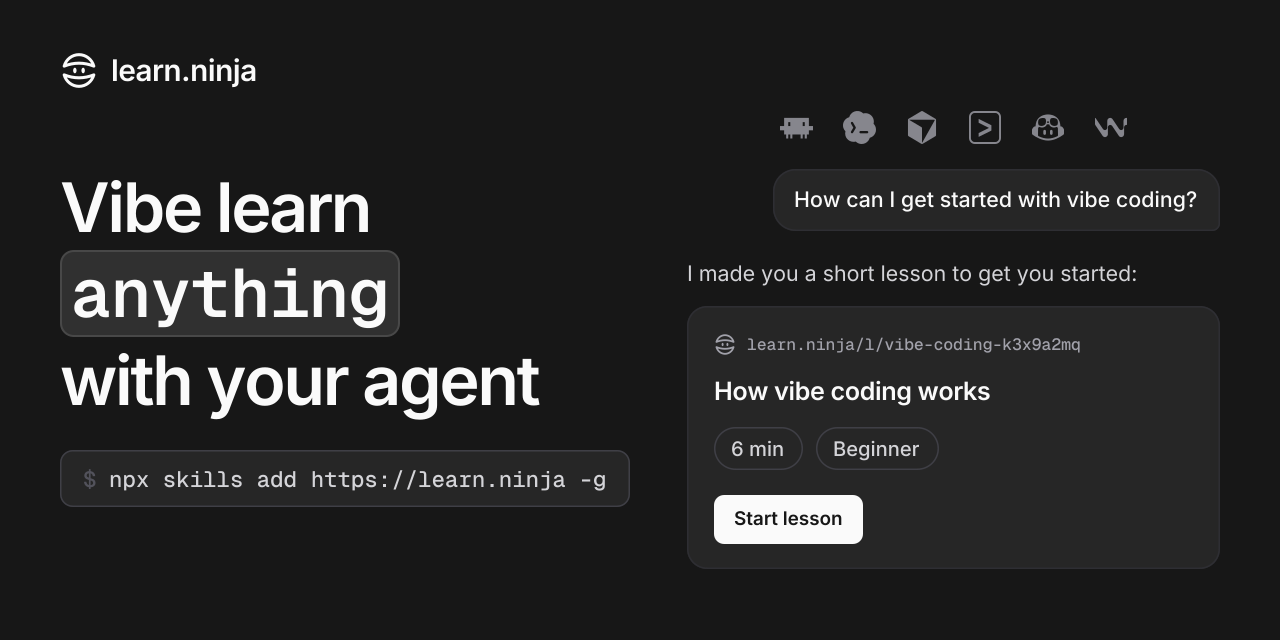
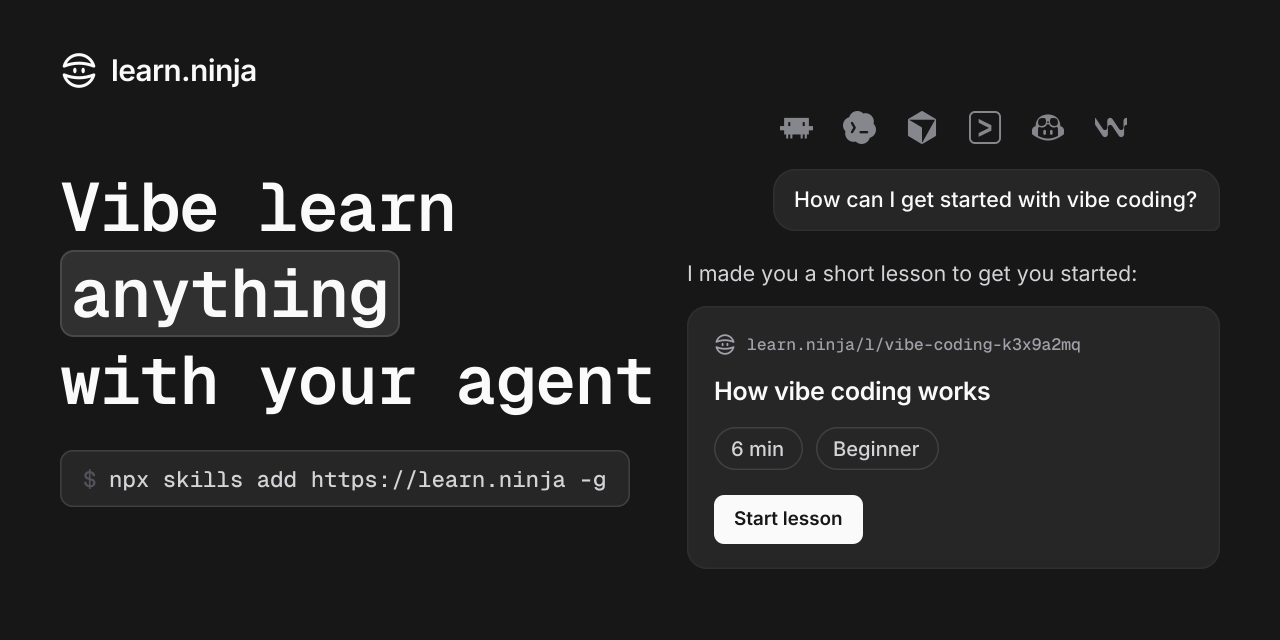
Set the hero heading in mono with a typewriter topic chip
The rotating topic is now an inline code chip that deletes and types
each word with a blinking caret. The whole heading is Geist Mono so the
chip lines up with the text, and the link preview card and brand share
images match.

Changed region(s): [[0.0312, 0.5625, 0.5312, 0.6562], [0.0312, 0.2812, 0.375, 0.375]]

diff --git a/apps/web/components/home/rotating-word.tsx b/apps/web/components/home/rotating-word.tsx
@@ -4,9 +4,14 @@ import * as React from "react"
 
 import { cn } from "@workspace/ui/lib/utils"
 
+const DELETE_MS = 60
+const PAUSE_MS = 250
+const TYPE_MS = 100
+
 /**
- * Cycles through `words` in a pill: the old word drifts up and fades out, the new one
- * rises in, and the pill eases to the new width. Stays on the first word for reduced motion.
+ * Cycles through `words` in an inline code chip like a typewriter: the word is deleted one
+ * letter at a time and the next one is typed in, with a caret that blinks while it waits.
+ * Stays on the first word for reduced motion.
  */
 export function RotatingWord({
   words,
@@ -15,55 +20,57 @@ export function RotatingWord({
   words: string[]
   interval?: number
 }) {
-  const [index, setIndex] = React.useState(0)
-  const [width, setWidth] = React.useState<number>()
-  const refs = React.useRef<(HTMLSpanElement | null)[]>([])
-  const previous = (index - 1 + words.length) % words.length
+  const [text, setText] = React.useState(words[0] ?? "")
+  const [typing, setTyping] = React.useState(false)
 
   React.useEffect(() => {
     if (matchMedia("(prefers-reduced-motion: reduce)").matches) return
-    const id = setInterval(
-      () => setIndex((i) => (i + 1) % words.length),
-      interval
-    )
-    return () => clearInterval(id)
-  }, [words.length, interval])
+    let timer: ReturnType<typeof setTimeout>
+    let cancelled = false
+    const wait = (ms: number) =>
+      new Promise<void>((resolve) => {
+        timer = setTimeout(resolve, ms)
+      })
 
-  // Follow the current word's width, also when the font size changes at a breakpoint.
-  React.useLayoutEffect(() => {
-    const el = refs.current[index]
-    if (!el) return
-    setWidth(el.offsetWidth)
-    const observer = new ResizeObserver(() => setWidth(el.offsetWidth))
-    observer.observe(el)
-    return () => observer.disconnect()
-  }, [index])
+    async function run(index: number) {
+      const word = words[index] ?? ""
+      const next = words[(index + 1) % words.length] ?? ""
+
+      await wait(interval)
+      setTyping(true)
+      for (let n = word.length - 1; n >= 0; n--) {
+        if (cancelled) return
+        setText(word.slice(0, n))
+        await wait(DELETE_MS)
+      }
+      await wait(PAUSE_MS)
+      for (let n = 1; n <= next.length; n++) {
+        if (cancelled) return
+        setText(next.slice(0, n))
+        await wait(TYPE_MS)
+      }
+      if (cancelled) return
+      setTyping(false)
+      void run((index + 1) % words.length)
+    }
+
+    void run(0)
+    return () => {
+      cancelled = true
+      clearTimeout(timer)
+    }
+  }, [words, interval])
 
   return (
-    <span className="inline-flex rounded-lg bg-muted px-2 font-mono tracking-normal ring-1 ring-foreground/10">
+    <span className="inline-flex rounded-md border bg-muted px-1.5">
+      {/* A zero-width space keeps the chip's height while it's empty. */}
+      <span className="whitespace-pre">{text || "\u200b"}</span>
       <span
-        className="relative inline-flex overflow-x-clip transition-[width] duration-500 ease-out"
-        style={{ width }}
-      >
-        {words.map((word, i) => (
-          <span
-            key={word}
-            ref={(el) => {
-              refs.current[i] = el
-            }}
-            className={cn(
-              "whitespace-nowrap transition-[opacity,translate,filter] duration-500 ease-out",
-              i !== index && "absolute start-0 top-0 opacity-0 blur-xs",
-              i !== index &&
-                (i === previous
-                  ? "-translate-y-[0.3em]"
-                  : "translate-y-[0.3em]")
-            )}
-          >
-            {word}
-          </span>
-        ))}
-      </span>
+        className={cn(
+          "my-[0.1em] w-0.5 shrink-0 self-stretch bg-foreground",
+          !typing && "motion-safe:animate-caret-blink"
+        )}
+      />
     </span>
   )
 }

diff --git a/apps/web/lib/og.tsx b/apps/web/lib/og.tsx
@@ -34,7 +34,7 @@ const C = {
 
 // ---------- fonts ----------
 
-// The site's fonts (Inter, and Geist Mono for the chip and the command), fetched from Google Fonts as
+// The site's fonts (Inter, and Geist Mono for the tagline and the command), fetched from Google Fonts as
 // TTF (the only format next/og reads) and kept for the life of the process. If the fetch fails,
 // next/og falls back to its bundled font.
 const FONT_CSS =
@@ -416,8 +416,9 @@ function Tagline({ size }: { size: number }) {
     fontSize: size,
     fontWeight: 600,
     lineHeight: 1.05,
-    letterSpacing: -size * 0.035,
+    letterSpacing: -size * 0.02,
     whiteSpace: "nowrap",
+    fontFamily: "Geist Mono",
   } as const
   return (
     <div style={{ ...column, alignItems: "flex-start", gap: size * 0.1 }}>
@@ -429,8 +430,6 @@ function Tagline({ size }: { size: number }) {
           borderRadius: size * 0.2,
           background: C.chip,
           border: `2px solid ${C.ring}`,
-          fontFamily: "Geist Mono",
-          letterSpacing: -size * 0.02,
         }}
       >
         anything

diff --git a/apps/web/components/home/hero.tsx b/apps/web/components/home/hero.tsx
@@ -10,7 +10,7 @@ export function Hero() {
   return (
     <section className="mx-auto flex w-full max-w-3xl flex-col items-center gap-24 px-4 py-20 sm:px-6 sm:py-28">
       <div className="flex w-full flex-col items-start gap-6">
-        <h1 className="text-3xl font-semibold tracking-tight sm:text-5xl sm:leading-[1.05]">
+        <h1 className="font-mono text-3xl font-semibold tracking-tight sm:text-5xl sm:leading-[1.05]">
           Vibe learn <span className="sr-only">anything</span>
           <span aria-hidden="true">
             <RotatingWord words={TOPICS} />
